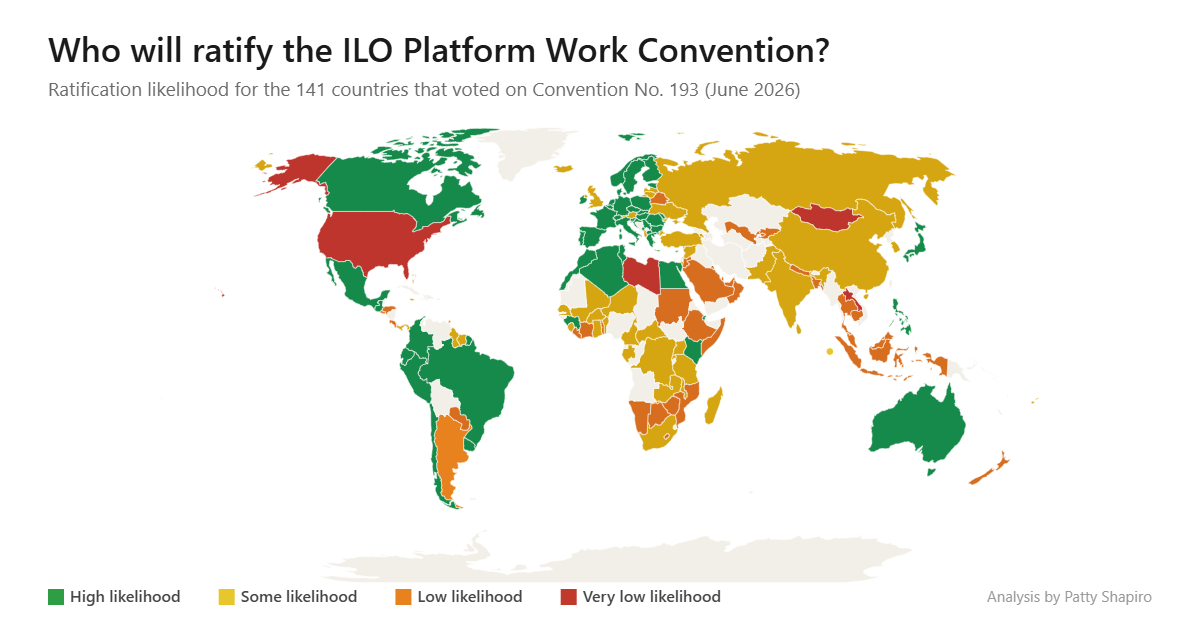
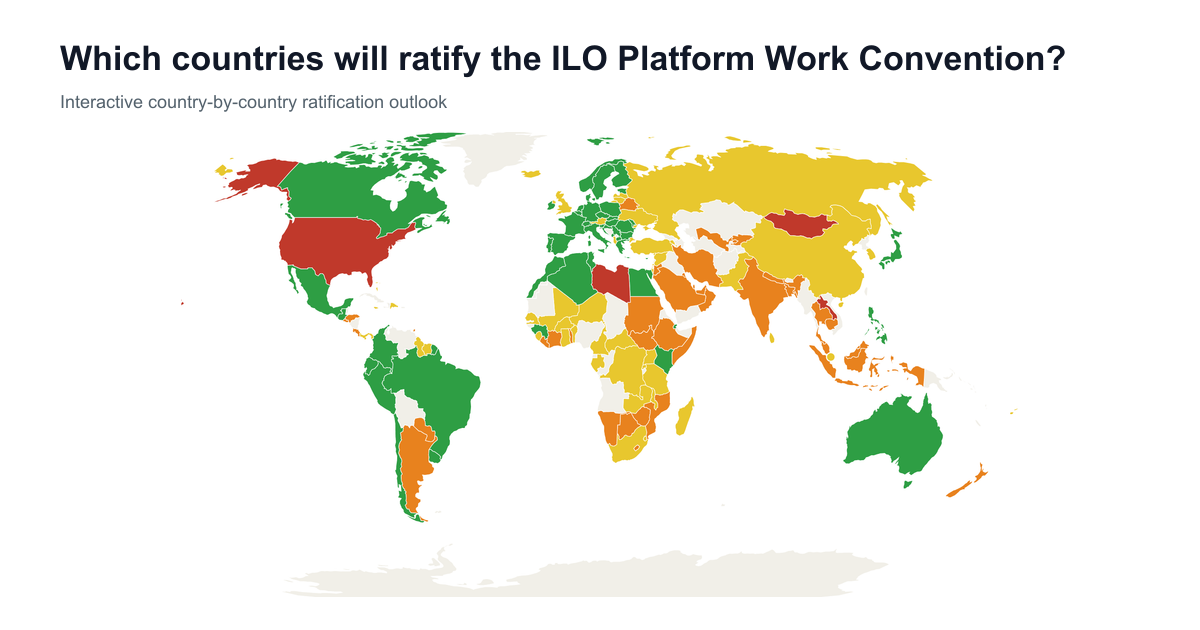
Update LinkedIn preview

diff --git a/index.html b/index.html
@@ -4,15 +4,16 @@
 <meta charset="utf-8">
 <meta name="viewport" content="width=device-width, initial-scale=1">
 <title>Likelihood of ratifying ILO Convention No. 193 (Platform Economy)</title>
-<meta property="og:title" content="Who will ratify the ILO Platform Work Convention?">
+<meta property="og:title" content="Which countries will ratify the ILO Platform Work Convention?">
 <meta property="og:description" content="Interactive map scoring 141 countries on their likelihood of ratifying ILO Convention No. 193, by Patty Shapiro. Delegate votes, ratification history, and platform-work legislation for every country.">
 <meta property="og:type" content="website">
 <meta property="og:url" content="https://robbi028.github.io/ilo-platform-map/">
 <meta property="og:image" content="https://robbi028.github.io/ilo-platform-map/preview.png">
 <meta property="og:image:width" content="1200">
 <meta property="og:image:height" content="630">
+<meta property="og:site_name" content="ILO Platform Work Convention Map">
 <meta name="twitter:card" content="summary_large_image">
-<meta name="twitter:title" content="Who will ratify the ILO Platform Work Convention?">
+<meta name="twitter:title" content="Which countries will ratify the ILO Platform Work Convention?">
 <meta name="twitter:image" content="https://robbi028.github.io/ilo-platform-map/preview.png">
 <style>
   body { margin: 0; font-family: -apple-system, 'Helvetica Neue', Arial, sans-serif; background: #ffffff; color: #1a1a1a; }